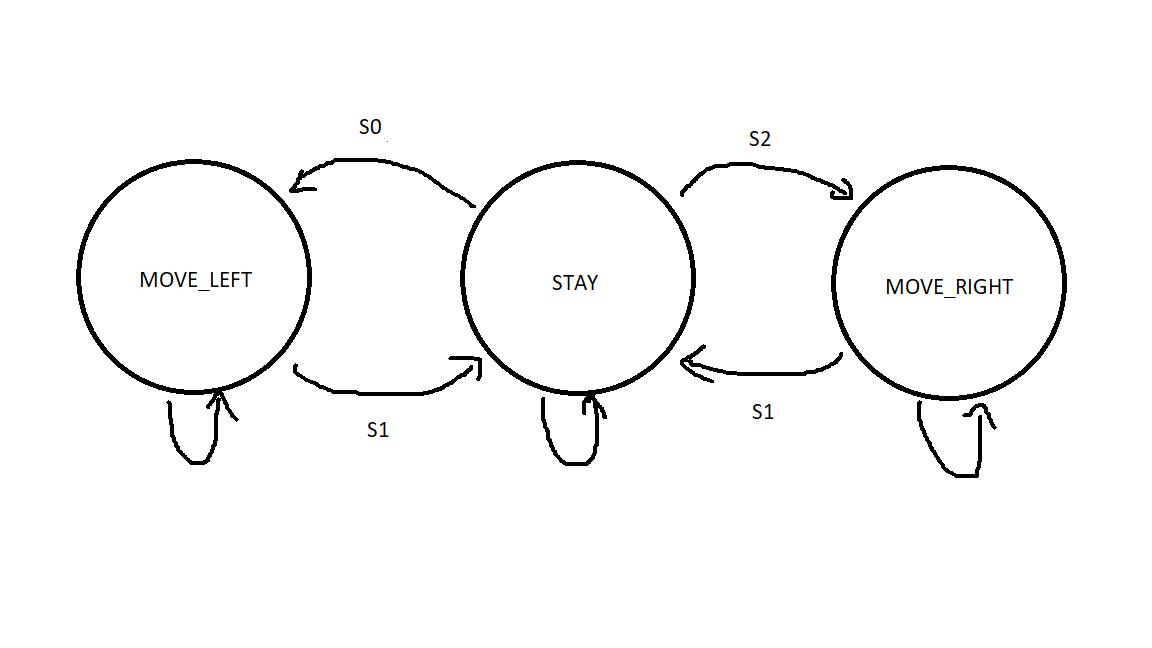
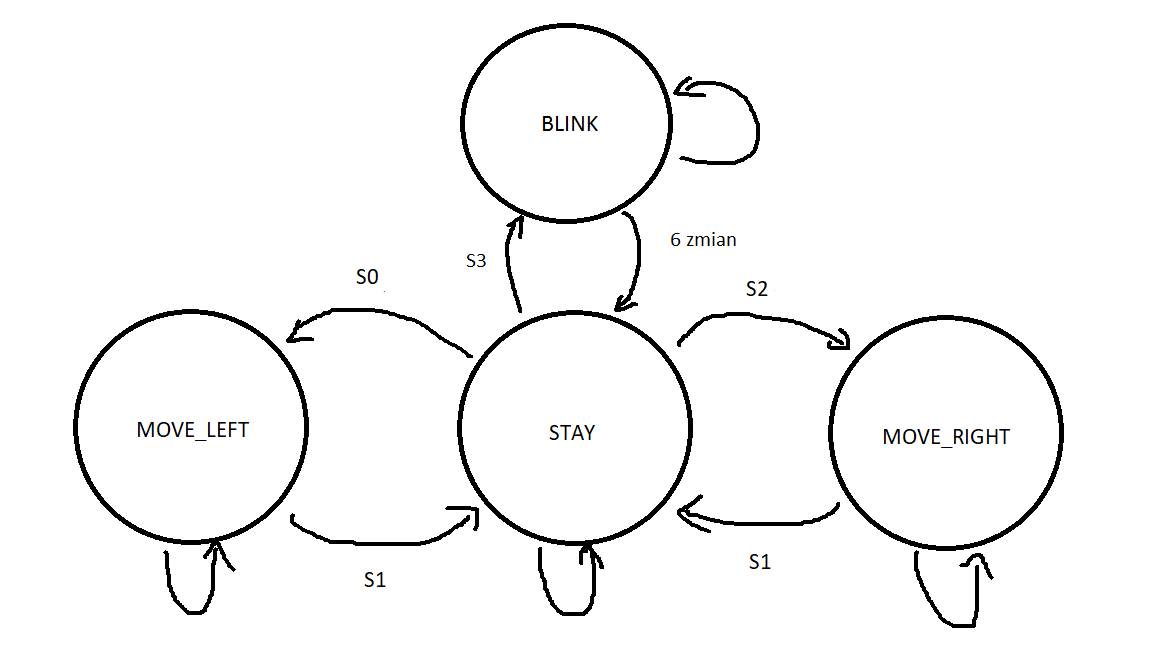
AUTOMATY with BLINK

diff --git a/Laby/Archive/6_AUTOMATY/main.c b/Laby/Archive/6_AUTOMATY/main.c
@@ -1,15 +1,9 @@
-#include <LPC21xx.H>
-
 #include "led.h"
 #include "keyboard.h"
-
-void Delay(unsigned int uiDelayTime);
 
 void Delay(unsigned int uiDelayTime){
 	for(unsigned int uiTimeCounter=0;uiTimeCounter<uiDelayTime*8000;uiTimeCounter++);
 }
-
-
 
 
 //main
@@ -17,31 +11,51 @@ int main(void){
 	LedInit();
 	KeyboardInit();
 
-	typedef enum {MOVE_LEFT, MOVE_RIGHT, STAY} LedState;
+	unsigned char ucChangeCounter=0;
+	
+	typedef enum {MOVE_LEFT, MOVE_RIGHT, STAY, BLINK} LedState;
   LedState eLedState = STAY;
 
   while(1){
     switch(eLedState){
       case MOVE_LEFT:
-        LedStepLeft();
 				if(BUTTON_1 == eKeyboardRead()){
           eLedState = STAY;
+				} else {
+					LedStepLeft();
 				}
         break;
       case STAY:
         if(BUTTON_2 == eKeyboardRead()){
 				  eLedState=MOVE_RIGHT;
-        }
-				else if(BUTTON_0 == eKeyboardRead()){
+        }else if(BUTTON_0 == eKeyboardRead()){
           eLedState = MOVE_LEFT;
+				}else if(BUTTON_3 == eKeyboardRead()){
+					eLedState = BLINK;
 				}
         break;
 			case MOVE_RIGHT:
-        LedStepRight();
 				if(BUTTON_1 == eKeyboardRead()){
           eLedState = STAY;
+				}	else{
+					LedStepRight();
 				}
-        break;	
+        break;
+			case BLINK:
+				if(6 == ucChangeCounter){
+					ucChangeCounter = 0;
+					eLedState = STAY;
+				}else{
+					if((ucChangeCounter%2) == 0){
+						ucChangeCounter++;
+						LedOn(4);
+					}else{
+						ucChangeCounter++;
+						LedOn(0);
+					}
+				}
+			
+				break;
 			
     }
 		Delay(100);

diff --git a/Laby/Archive/6_AUTOMATY/led.c b/Laby/Archive/6_AUTOMATY/led.c
@@ -1,6 +1,12 @@
 #include <LPC21xx.H>
 #include "led.h"
 
+#define LED0_bm (1<<16)
+#define LED1_bm (1<<17)
+#define LED2_bm (1<<18)
+#define LED3_bm (1<<19)
+
+typedef enum {LEFT,RIGHT} StepSide;
 
 void LedInit(void){
 	IO1DIR |= LED0_bm | LED1_bm | LED2_bm | LED3_bm;
@@ -25,7 +31,7 @@ void LedOn(unsigned char ucLedIndeks){
 	}
 }
 
-static void LedStep(StepSide eStepSide){
+void LedStep(StepSide eStepSide){
 	static unsigned char ucCurrentDiode=0;
 	if(eStepSide == RIGHT ){
 			ucCurrentDiode--;

diff --git a/Laby/Archive/6_AUTOMATY/led.h b/Laby/Archive/6_AUTOMATY/led.h
@@ -1,17 +1,4 @@
-#ifndef LED_H
-#define LED_H
-
-#define LED0_bm (1<<16)
-#define LED1_bm (1<<17)
-#define LED2_bm (1<<18)
-#define LED3_bm (1<<19)
-
-typedef enum {LEFT,RIGHT} StepSide;
-
 void LedInit(void);
 void LedOn(unsigned char ucLedIndeks);
-static void LedStep(StepSide eStepSide);
 void LedStepLeft(void);
 void LedStepRight(void);
-
-#endif

diff --git a/Laby/Archive/6_AUTOMATY/keyboard.h b/Laby/Archive/6_AUTOMATY/keyboard.h
@@ -1,15 +1,4 @@
-#ifndef KEYBOARD_H
-#define KEYBOARD_H
-
-
-#define KEY0_bm (1<<4)
-#define KEY1_bm (1<<6)
-#define KEY2_bm (1<<5)
-#define KEY3_bm (1<<7)
-
 typedef enum {RELEASED,BUTTON_0, BUTTON_1, BUTTON_2, BUTTON_3} KeyboardState;
 
 KeyboardState eKeyboardRead(void);
 void KeyboardInit(void);
-
-#endif

diff --git a/Laby/Archive/6_AUTOMATY/keyboard.c b/Laby/Archive/6_AUTOMATY/keyboard.c
@@ -1,6 +1,11 @@
 #include <LPC21xx.H>
-#include "led.h"
 #include "keyboard.h"
+
+#define KEY0_bm (1<<4)
+#define KEY1_bm (1<<6)
+#define KEY2_bm (1<<5)
+#define KEY3_bm (1<<7)
+
 
 KeyboardState eKeyboardRead(void){
 	if (0 == (IO0PIN & KEY0_bm)){
